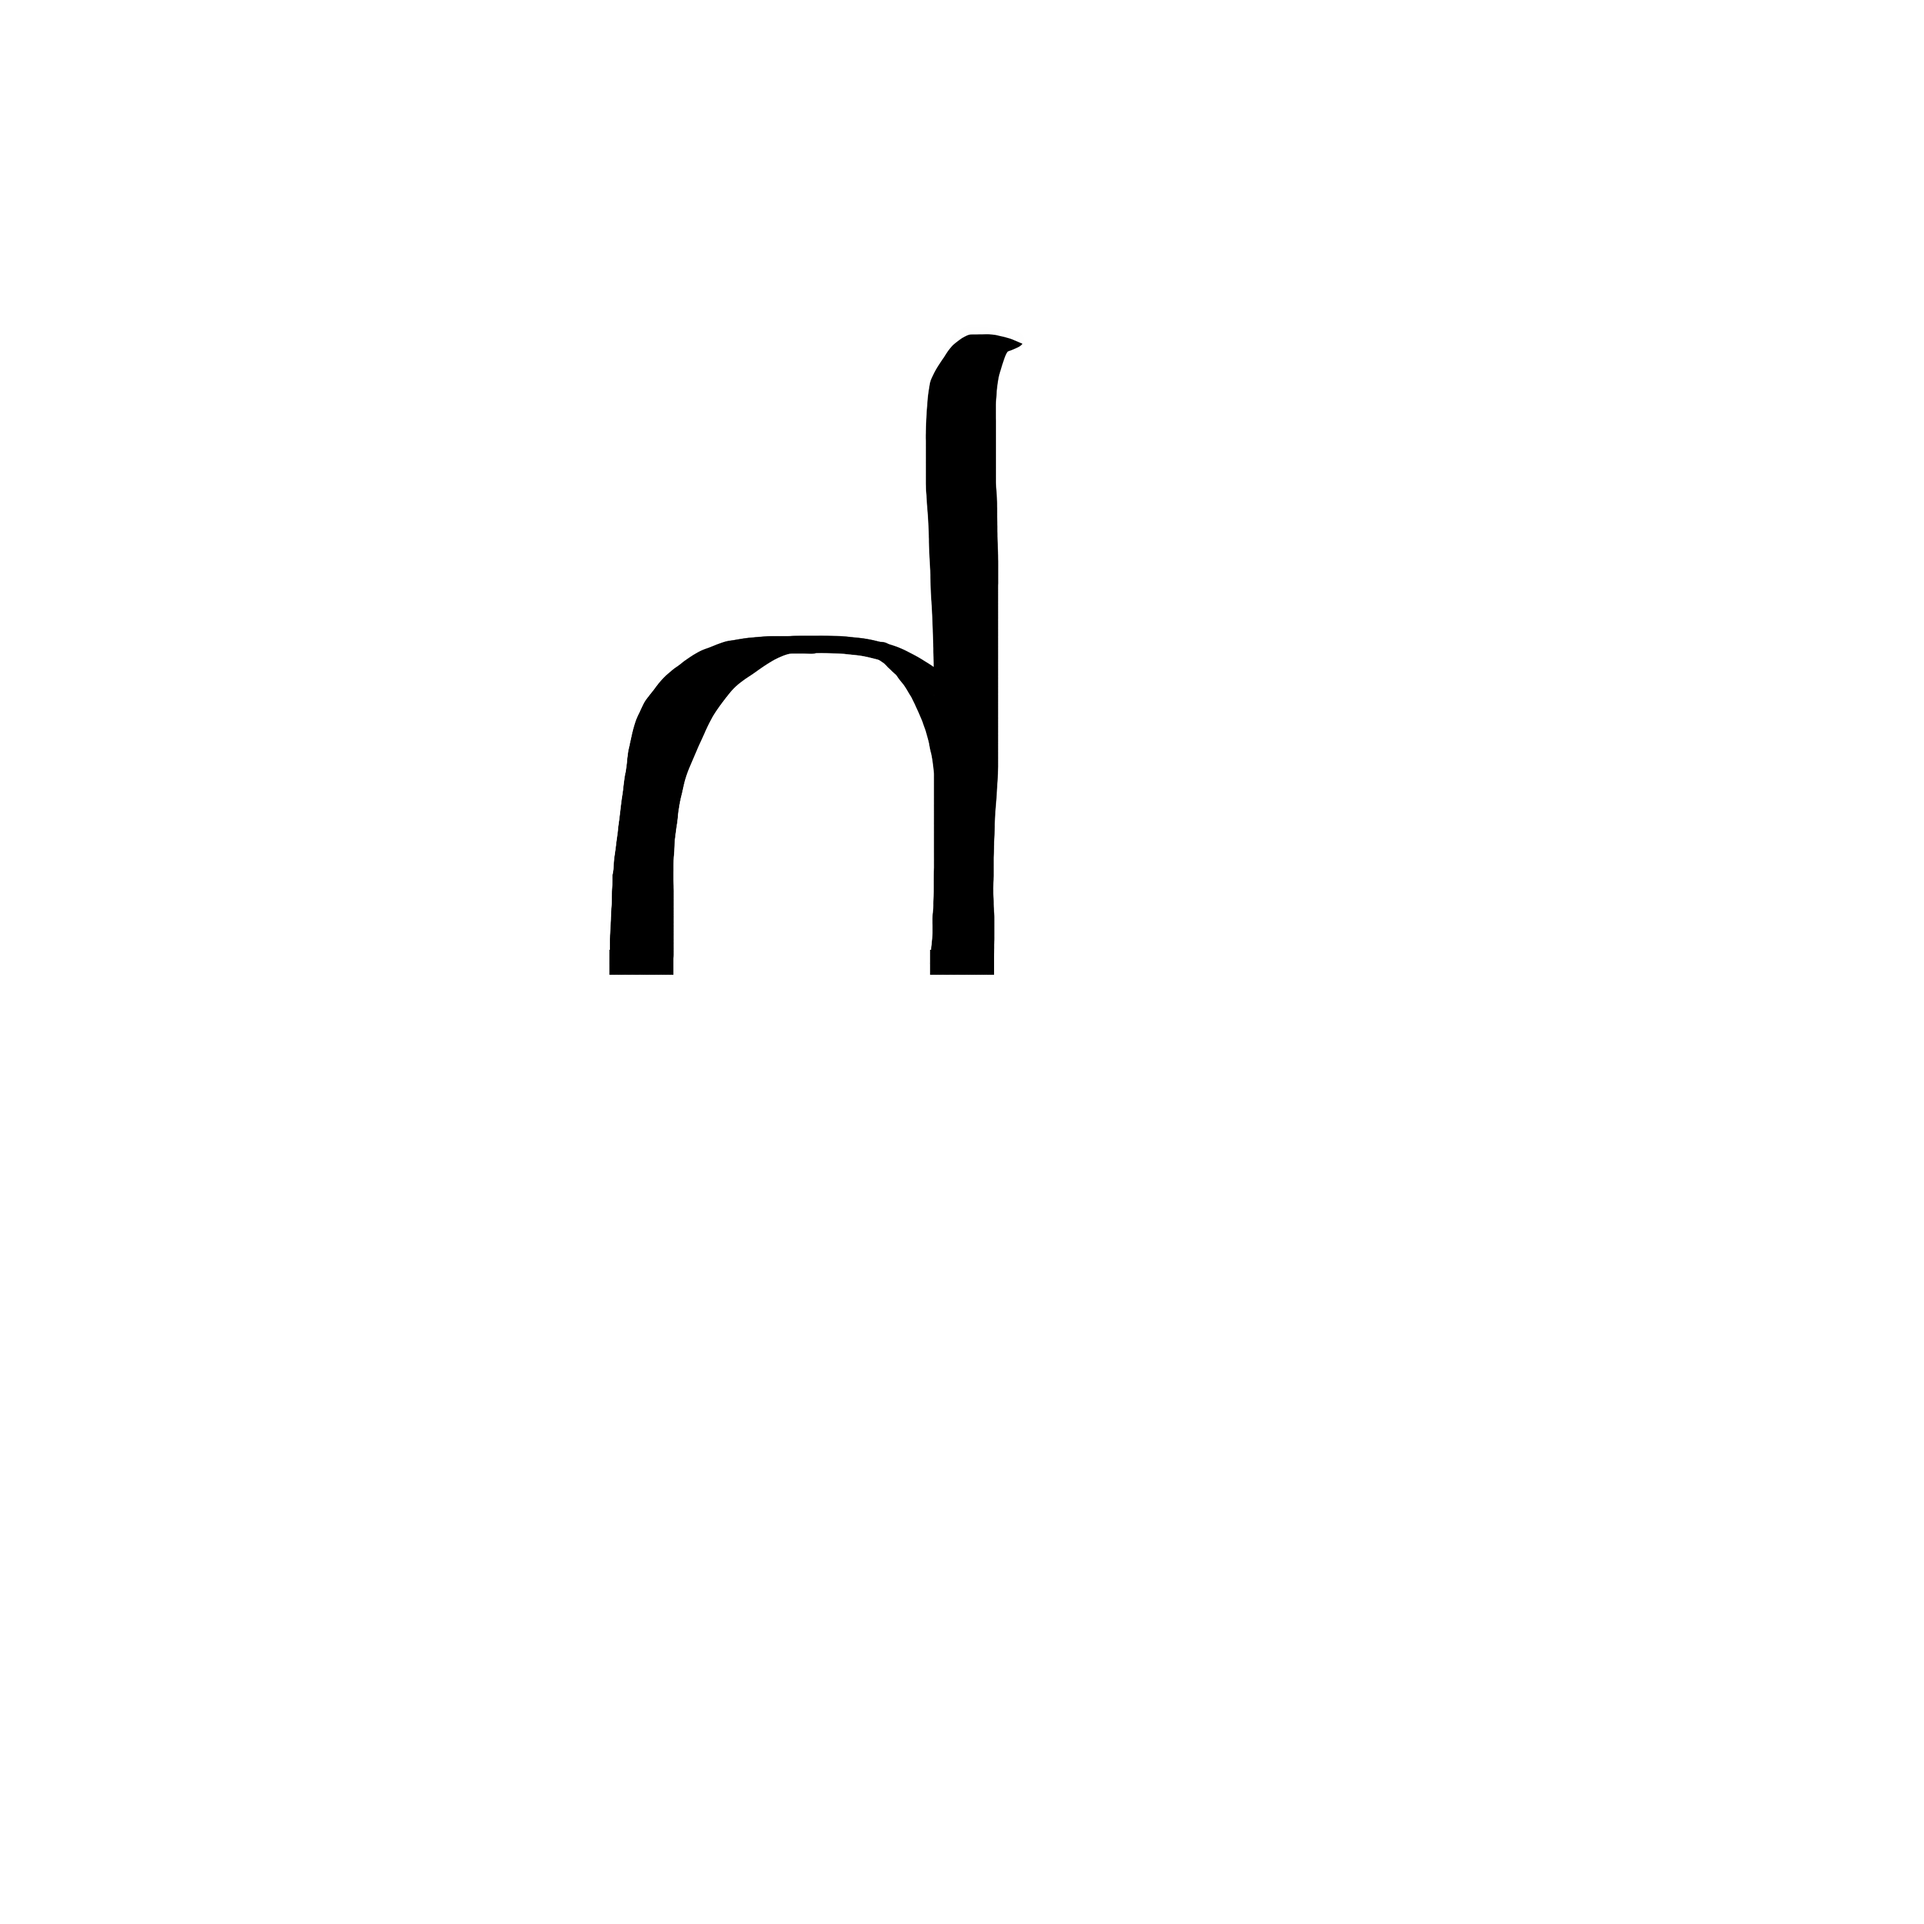
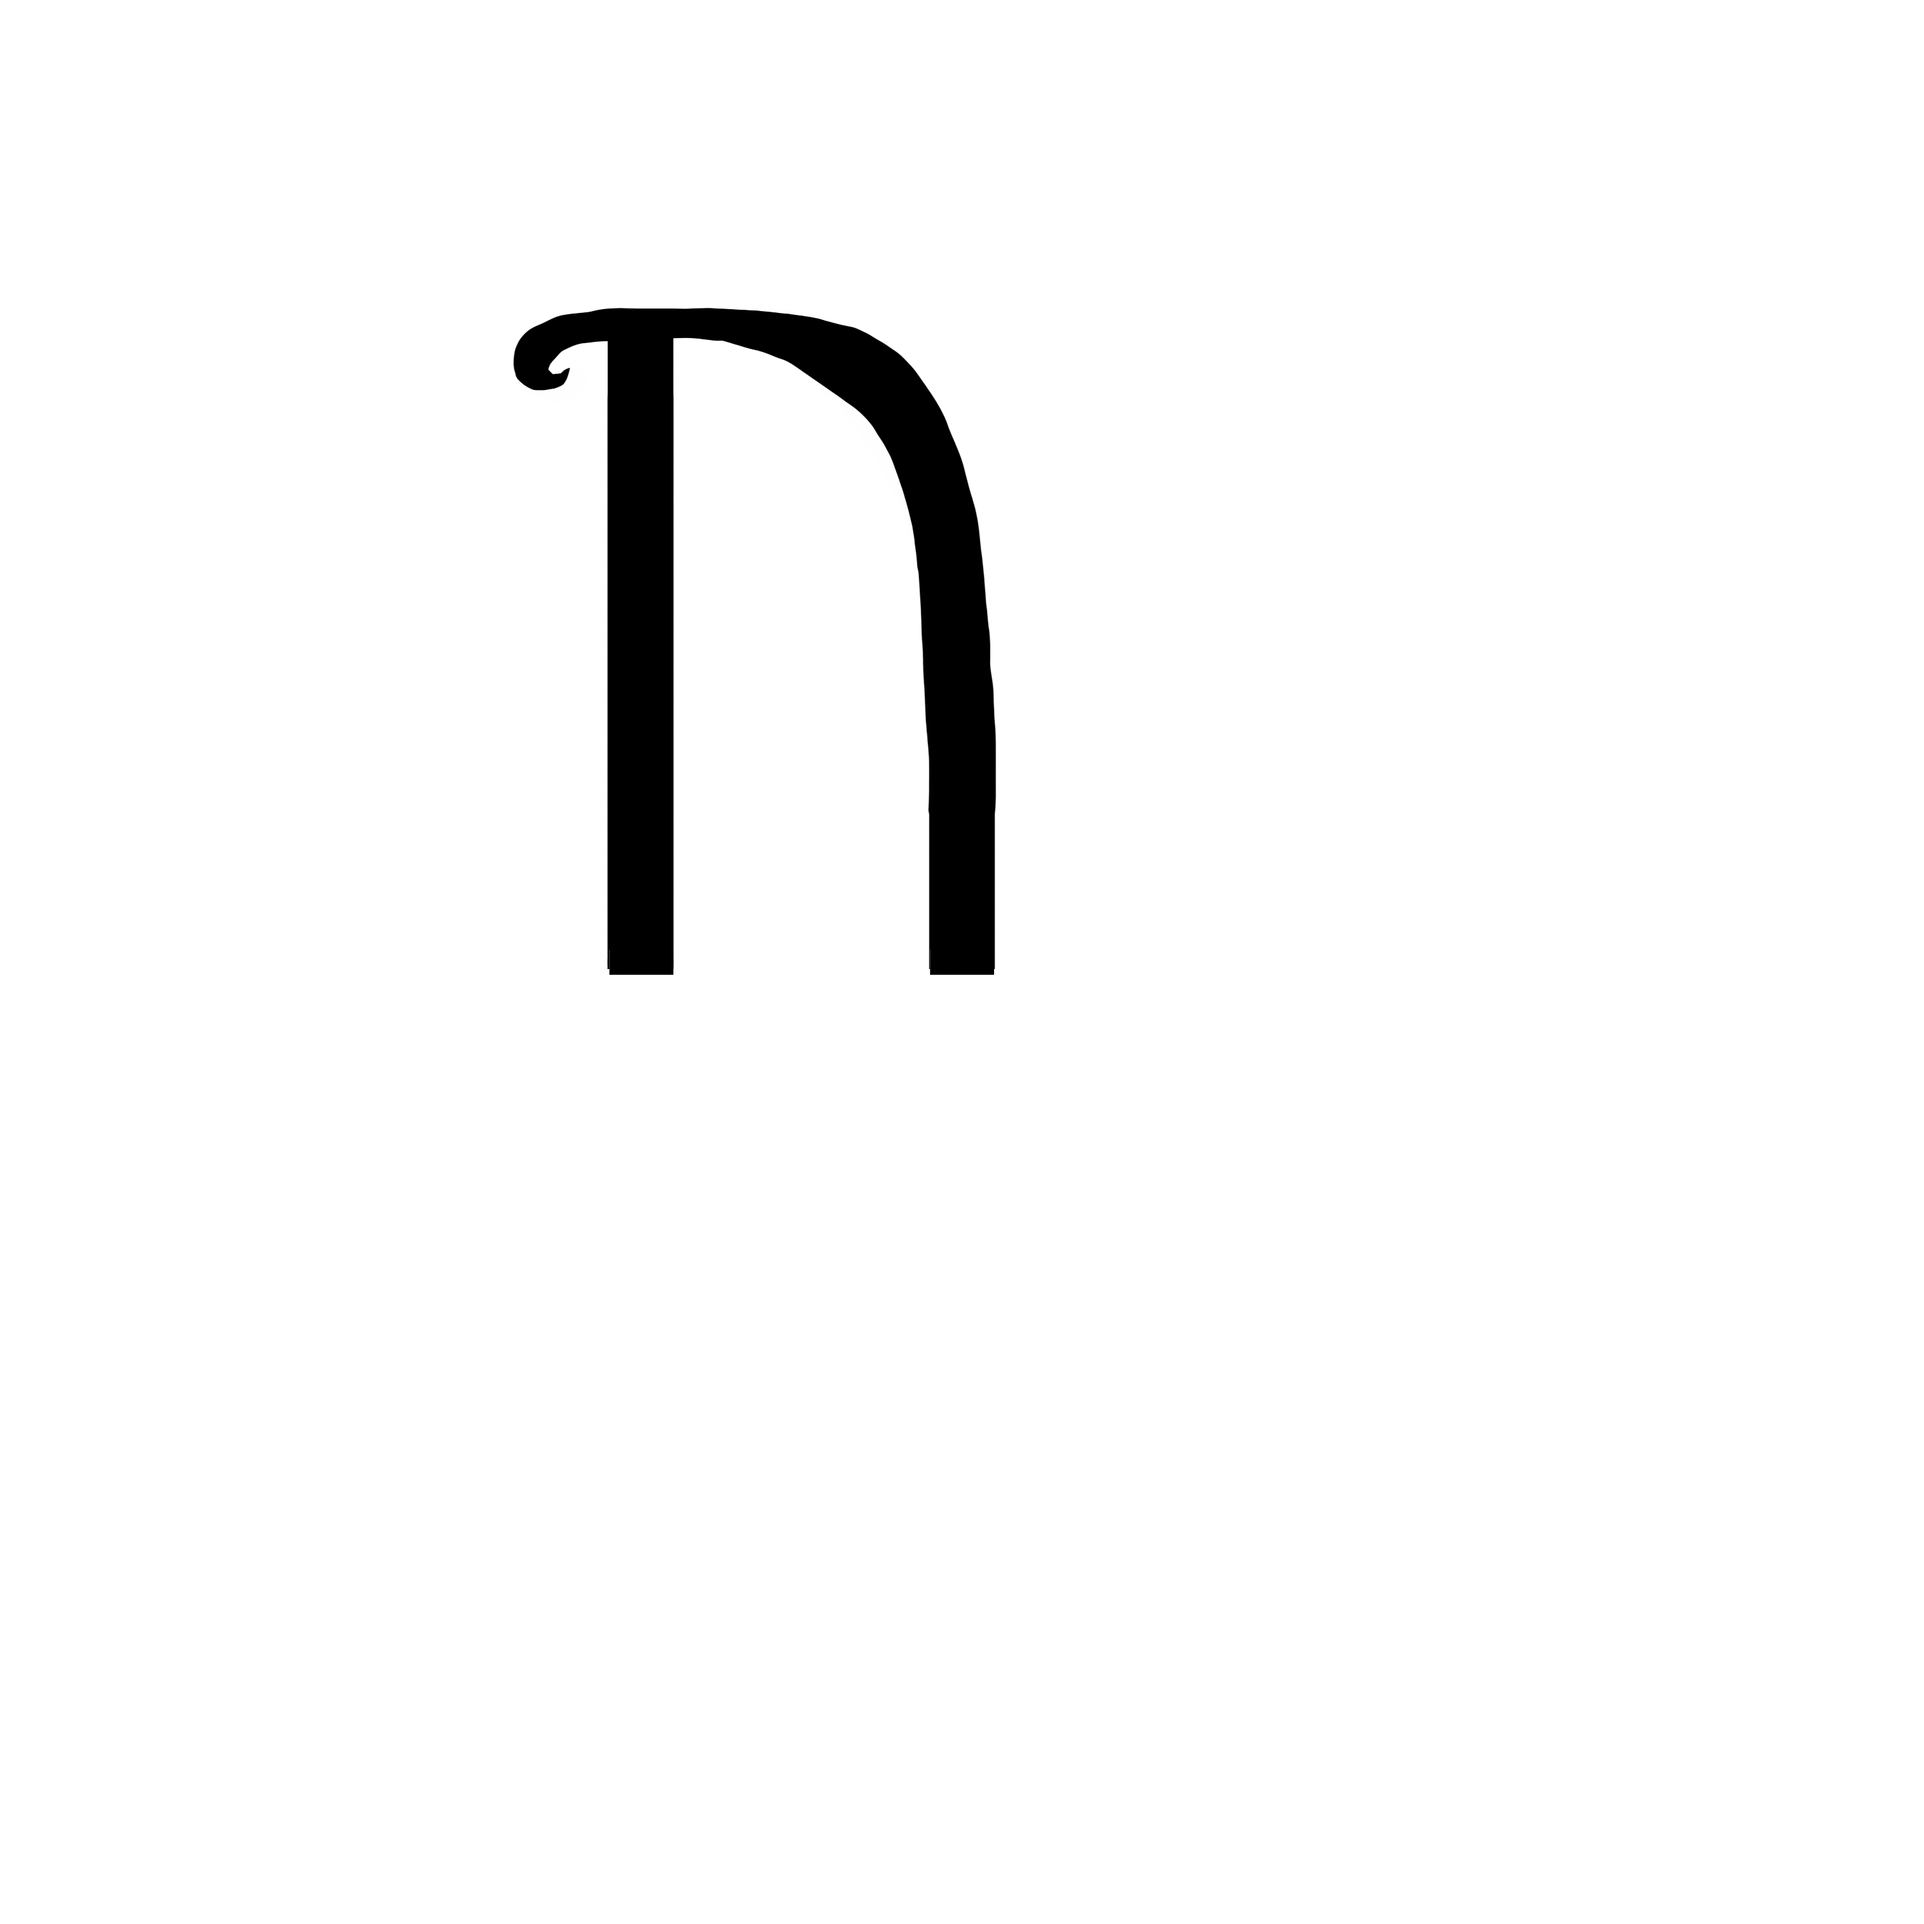
Overhauled the glyphs for the generator

Changed region(s): [[0.248, 0.155, 0.527, 0.465]]

diff --git a/ambigenerator/main.js b/ambigenerator/main.js
@@ -1,7 +1,7 @@
-let startGlyphs = [['a1', 'a2i'], ['b2i'], ['c1', 'c2'], ['d2'], ['e2', 'e1'], ['f1i'], ['g2'], ['h2i', 'h2'], ['i1'], ['j1', 'j2'], ['k2'], ['l1'], ['m2', 'm3'], ['n2'], ['o2i', 'o1'], ['p1i'], ['q1', 'q2'], ['r1', 'r2'], ['s1', 's2'], ['t1'], ['u2'], ['v1', 'v2'], ['w2', 'w3'], ['x1', 'x2'], ['y1', 'y2'], ['z1', 'z2']]
-let middleGlyphs = [['a2'], ['b2'], ['c1', 'c2'], ['d2i'], ['e2i', 'e1'], ['f1'], ['g2'], ['h2'], ['i1'], ['j1', 'j2'], ['k2'], ['l1'], ['m3'], ['n2'], ['o2i'], ['p1'], ['q1', 'q2'], ['r1', 'r2'], ['s1', 's2'], ['t1'], ['u2'], ['v1', 'v2'], ['w2', 'w3'], ['x1', 'x2'], ['y1', 'y2'], ['z1', 'z2']];
-let endGlyphs = [['a1i', 'a2'], ['b2'], ['c1', 'c2'], ['d2i'], ['e2i', 'e1'], ['f1'], ['g2'], ['h1', 'h2'], ['i1'], ['j1', 'j2'], ['k2'], ['l1'], ['m3'], ['n1', 'n2'], ['o2'], ['p1'], ['q1', 'q2'], ['r1', 'r2'], ['s1', 's2'], ['t1'], ['u2'], ['v1', 'v2'], ['w2', 'w3'], ['x1', 'x2'], ['y1', 'y2'], ['z1', 'z2']];
-let bannedPairs = [['h2i','y2'],['r1','r2'],['h1','y2'],['v1','v2'],['e1','e2i'],['s1','s2']];
+let startGlyphs = [['a1', 'a2i'], ['r2i'], ['c1', 'c2i'], ['d2i'], ['e2i', 'e1'], ['f1i'], ['g2i'], ['h2i', 'h2'], ['i1'], ['j1', 'j2'], ['k2i'], ['l1'], ['m2i', 'm3'], ['n2i'], ['o2i'], ['p1'], ['q2'], ['r1', 'r2i'], ['s1', 's2i'], ['t1i'], ['u2'], ['v1i', 'v2'], ['w2', 'w3'], ['x2'], ['y1i'], ['z1', 'z2']]
+let middleGlyphs = [['a2'], ['h2'], ['c1', 'c2'], ['d2'], ['e2', 'e1'], ['f1'], ['g2'], ['h2'], ['i1'], ['j1', 'j2'], ['k2'], ['l1'], ['m3', 'm2'], ['n2'], ['o2'], ['p1'], ['q2'], ['r1', 'r2'], ['s1', 's2'], ['t1'], ['u2'], ['v1', 'v2'], ['w2', 'w3'], ['x2'], ['y1'], ['z1', 'z2']];
+let endGlyphs = [['a2'], ['h2'], ['c1', 'c2'], ['d2'], ['e2', 'e1'], ['f1'], ['g2'], ['h2'], ['i1'], ['j1', 'j2'], ['k2'], ['l1'], ['m3', 'm2'], ['n2'], ['o2'], ['p1'], ['q2'], ['r1', 'r2'], ['s1', 's2'], ['t1'], ['u2'], ['v1', 'v2'], ['w2', 'w3'], ['x2'], ['y1'], ['z1', 'z2']];
+// let bannedPairs = [['h2i','y2'],['r1','r2'],['h1','y2'],['v1','v2'],['e1','e2i'],['s1','s2']];
 
 function clear() {
 	const canvases = document.querySelectorAll('canvas');
@@ -25,7 +25,7 @@ function spawnCanvas(width, height) {
 async function getGlyphImage(name) {
 	return new Promise((resolve) => {
 		const glyph = new Image();
-		glyph.src = 'g/' + name + '.png';
+		glyph.src = 'g3/' + name + '.png';
 		glyph.onload = function() { resolve(glyph); };
 	});	
 }
@@ -86,6 +86,7 @@ async function generateAmbigram() {
 	clear();
 
 	let words = document.getElementById('wordInput').value;
+	let doubleWords = true;
 	
 	// Check if string is valid
 	if ((/[^a-zA-Z\s]/.test(words))) {
@@ -104,6 +105,7 @@ async function generateAmbigram() {
 	}
 	else if (words.length == 1) {
 		words = [words[0], words[0]];
+		doubleWords = false;
 	}
 
 	const glyphs = getPossibleGlyphs(words);
@@ -112,14 +114,24 @@ async function generateAmbigram() {
 	let permutsB = cartesian(glyphs[1]);
 
 	let matchingCombos = [];
-	for (let permutA of permutsA) { for (let permutB of permutsB) {
-		permutA = Array.isArray(permutA) ? permutA : [permutA];
-		permutB = Array.isArray(permutB) ? permutB : [permutB];
 
-		if (countStrokes(permutA) == countStrokes(permutB)) {
-			matchingCombos.push([permutA, permutB]);
+	// If two words:
+	if (doubleWords) {
+		for (let permutA of permutsA) { for (let permutB of permutsB) {
+			permutA = Array.isArray(permutA) ? permutA : [permutA];
+			permutB = Array.isArray(permutB) ? permutB : [permutB];
+
+			if (countStrokes(permutA) == countStrokes(permutB)) {
+				matchingCombos.push([permutA, permutB]);
+			}
+		}}
+	}
+	else {
+		for (let i of permutsA) {
+			matchingCombos.push([i,i]);
 		}
-	}}
+	}
+	// If one word, matchingCombos = [[a,a],[b,b]...] where a and b are elements of permutsA
 	
 	if (matchingCombos.length == 0) {
 		say(["Those two are completely different lengths!\n\n>:(", `${words[0]} doesn't fit with ${words[1]}...`, `How do you even expect me to match ${words[0]} with ${words[1]}?!`]);
@@ -127,14 +139,15 @@ async function generateAmbigram() {
 	}
 	for (const combo of matchingCombos) {
 		let width = countStrokes(combo[0]);
-		const strokeWidth = 50;
+		const strokeWidth = 25;
 		width += 3;
 		width *= strokeWidth;
-		let canvas = spawnCanvas(width, 300);
+		let canvas = spawnCanvas(width, 150);
 		let ctx = canvas.getContext('2d');
 
 		let x = 0;
 		for (const glyph of combo[0]) {
+			console.log(glyph);
 			const glyphImage = await getGlyphImage(glyph);
 			ctx.drawImage(glyphImage, x, 0);
 			x += strokeWidth * countStrokes([glyph]);

diff --git a/secret morse code thing/index.html b/secret morse code thing/index.html
@@ -8,6 +8,7 @@
 <body>
     Use space or left click or an arrow key or something to input some morse code!
     <br><br>
-    <p>a </p>
+    <p></p>
+    <script type="text/javascript" src="main.js"></script>
 </body>
 </html>
